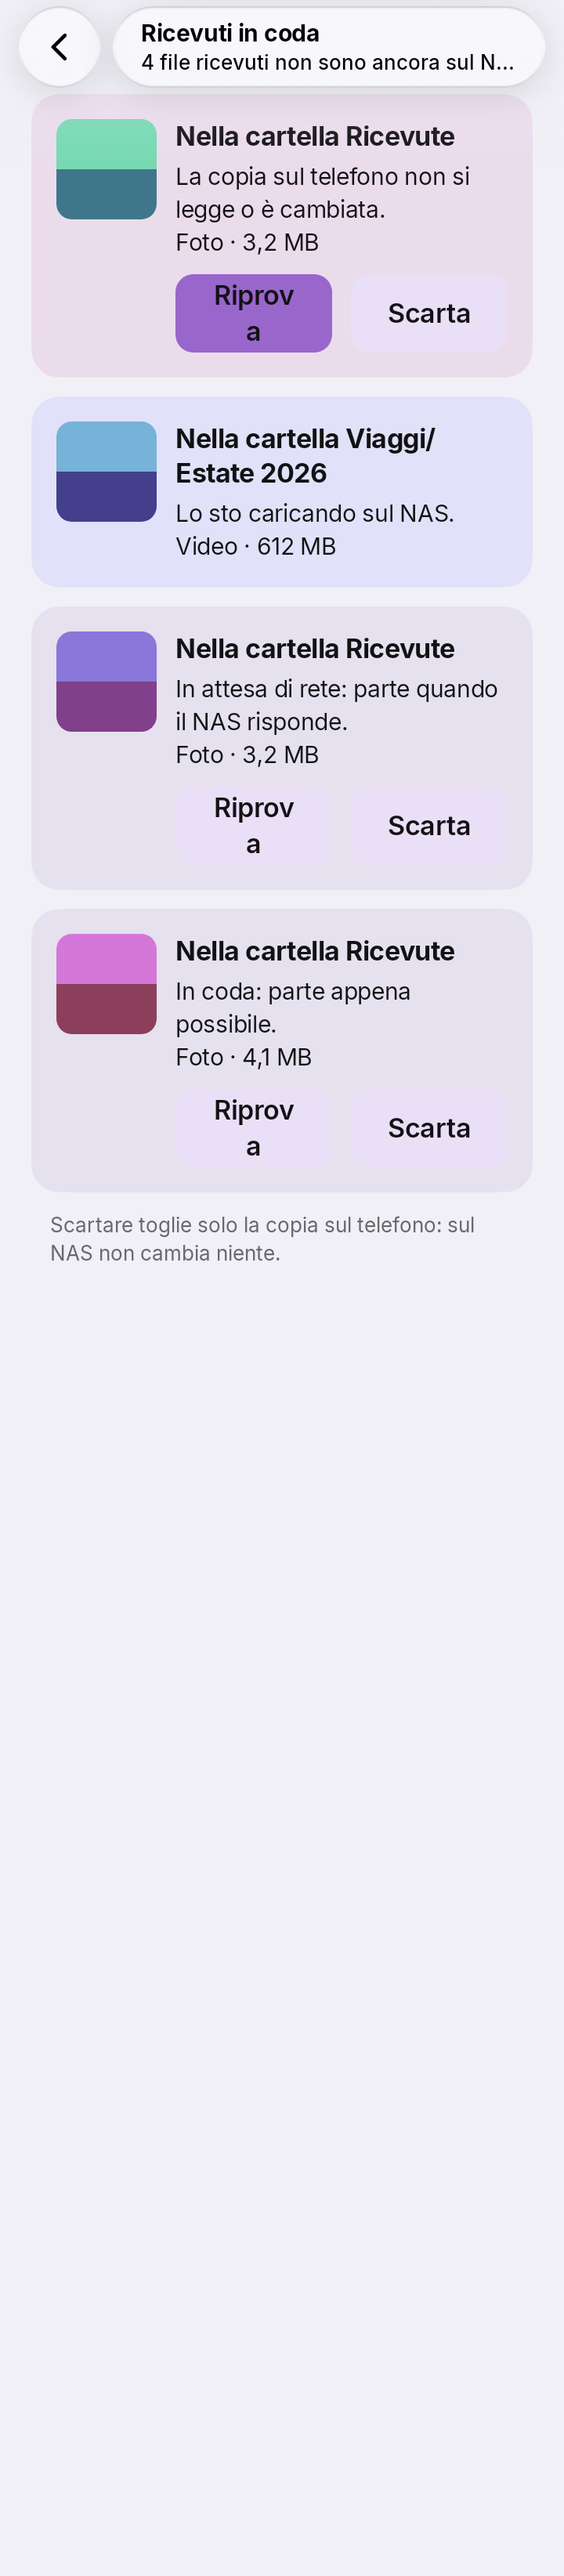
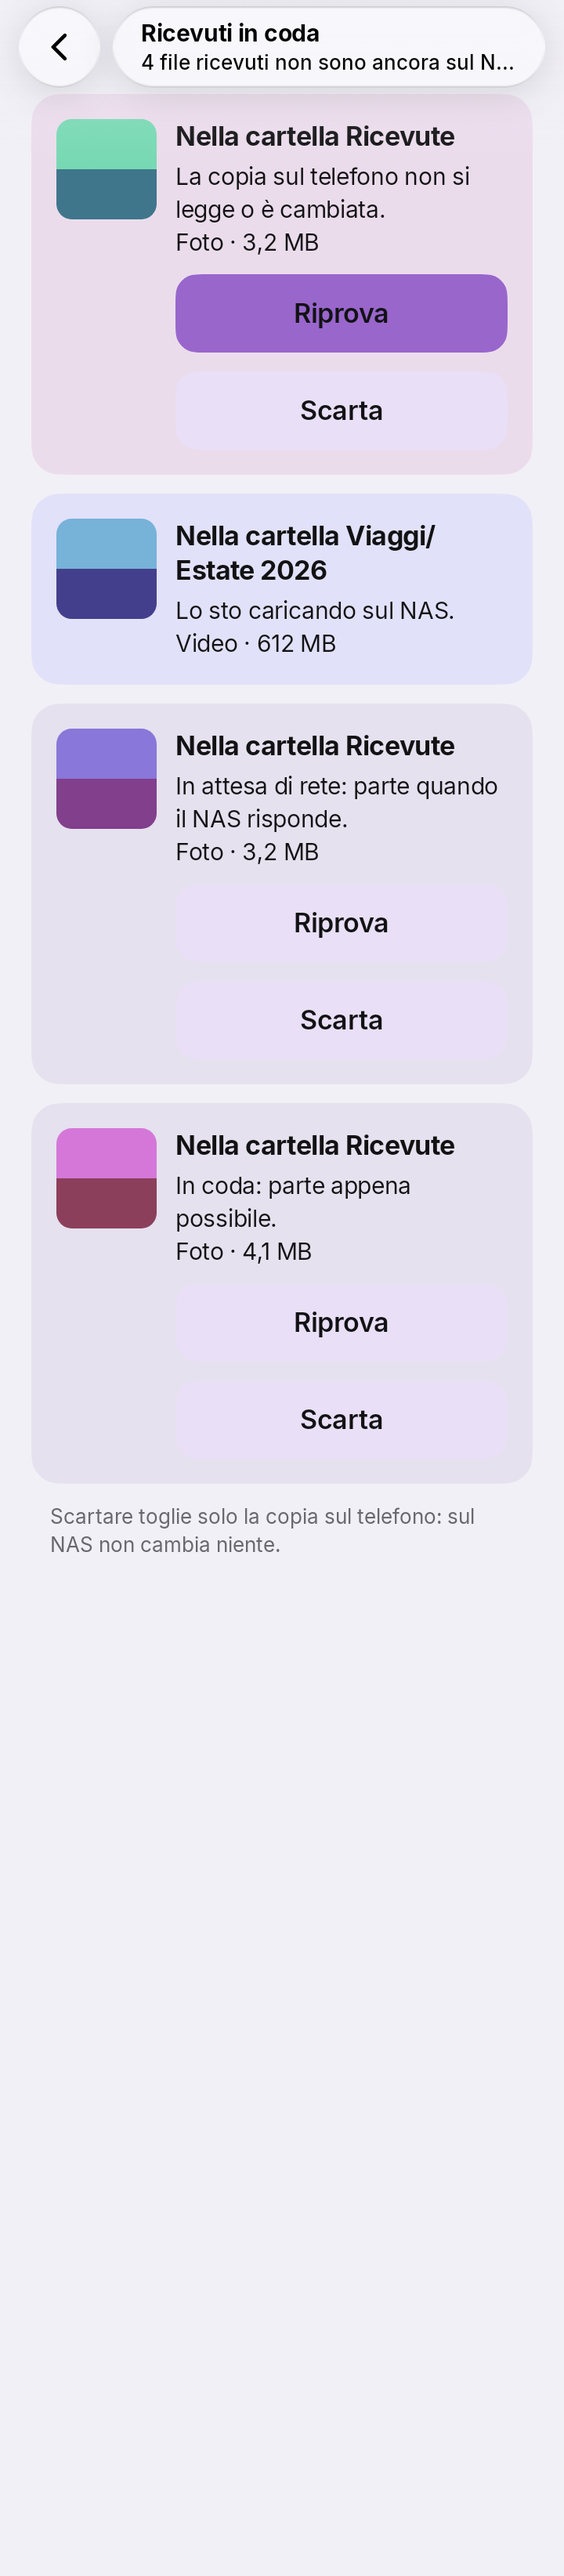
K4: Ricevuti in coda a 360 dp, "Riprova" e "Scarta" interi (uno sotto l'altro se non entrano)
Accanto alla miniatura la colonna dei tasti e' di ~200 dp: "Riprova" andava a capo a meta' parola.
I tasti ora stanno in un FlowRow alla loro larghezza naturale e si dividono la riga; se non entrano
interi vanno uno sotto l'altro. Prova a 360 dp (testo normale e grande): ogni etichetta su una riga,
nessun tasto sovrapposto. Screenshot 5-IN7 riregistrati.

diff --git a/feature-backup/src/test/kotlin/dev/pampa/mycloudgallery/feature/backup/received/ReceivedButtonsFitTest.kt b/feature-backup/src/test/kotlin/dev/pampa/mycloudgallery/feature/backup/received/ReceivedButtonsFitTest.kt
@@ -1,0 +1,79 @@
+package dev.pampa.mycloudgallery.feature.backup.received
+
+import android.app.Application
+import androidx.compose.ui.semantics.SemanticsActions
+import androidx.compose.ui.semantics.SemanticsProperties
+import androidx.compose.ui.semantics.getOrNull
+import androidx.compose.ui.test.SemanticsMatcher
+import androidx.compose.ui.test.onAllNodesWithText
+import androidx.compose.ui.text.TextLayoutResult
+import com.google.common.truth.Truth.assertThat
+import com.google.common.truth.Truth.assertWithMessage
+import dev.pampa.mycloudgallery.feature.backup.BackupComposeBase
+import dev.pampa.mycloudgallery.feature.backup.LARGE_TEXT
+import dev.pampa.mycloudgallery.feature.backup.testing.ReceivedSamples
+import org.junit.Test
+import org.junit.runner.RunWith
+import org.robolectric.RobolectricTestRunner
+import org.robolectric.annotation.Config
+import org.robolectric.annotation.GraphicsMode
+
+/**
+ * K4: "Riprova" e "Scarta" nella scheda di un file ricevuto, sul telefono dell'utente (360 dp, una pagina alta) e con il testo grande. Accanto alla
+ * miniatura la colonna dei tasti e' di ~200 dp: "Riprova" andava a capo a meta' parola ("Riprov/a"). Adesso i tasti stanno **interi**, su una riga se
+ * entrano o uno sotto l'altro, e non si sovrappongono mai.
+ */
+@RunWith(RobolectricTestRunner::class)
+@GraphicsMode(GraphicsMode.Mode.NATIVE)
+@Config(application = Application::class, qualifiers = "w360dp-h1700dp-xhdpi")
+class ReceivedButtonsFitTest : BackupComposeBase() {
+
+  private val items = listOf(
+    ReceivedSamples.item(1, ReceivedStatus.COPY_CHANGED, folder = "Ricevute"),
+    ReceivedSamples.item(2, ReceivedStatus.NETWORK, folder = "Viaggi/Estate 2026"),
+  )
+
+  private fun showList(fontScale: Float? = null) =
+    show(fontScale = fontScale) { ReceivedScreen(state = ReceivedUi(items, null, null), actions = ReceivedActions(), onBack = {}) }
+
+  /** Quante righe scrive ogni "[label]" sullo schermo (nell'albero non unito: il nodo del solo testo). */
+  private fun lineCounts(label: String): List<Int> =
+    composeRule.onAllNodesWithText(label, useUnmergedTree = true).fetchSemanticsNodes().map { node ->
+      val results = ArrayList<TextLayoutResult>()
+      node.config.getOrNull(SemanticsActions.GetTextLayoutResult)?.action?.invoke(results)
+      results.single().lineCount
+    }
+
+  private fun assertWholeWords(scale: String) {
+    for (label in listOf("Riprova", "Scarta")) {
+      val counts = lineCounts(label)
+      assertThat(counts).hasSize(2)
+      assertWithMessage("\"$label\" a 360 dp ($scale) va a capo: $counts").that(counts.all { it == 1 }).isTrue()
+    }
+  }
+
+  private fun assertNoOverlap() {
+    // I soli tasti delle schede ("Riprova: Ricevute", "Scarta: ..."): la freccia "indietro" della chrome e' toccabile anche lei.
+    val buttons = composeRule.onAllNodes(SemanticsMatcher.keyIsDefined(SemanticsActions.OnClick)).fetchSemanticsNodes()
+      .filter { node -> node.config.getOrNull(SemanticsProperties.ContentDescription)?.firstOrNull()?.let { it.startsWith("Riprova: ") || it.startsWith("Scarta: ") } == true }
+      .map { it.boundsInRoot }
+    assertThat(buttons).hasSize(4)
+    for (i in buttons.indices) for (j in i + 1 until buttons.size) {
+      assertWithMessage("i tasti $i e $j si sovrappongono: ${buttons[i]} / ${buttons[j]}").that(buttons[i].overlaps(buttons[j])).isFalse()
+    }
+  }
+
+  @Test
+  fun iTastiStannoInteriA360() {
+    showList()
+    assertWholeWords("testo normale")
+    assertNoOverlap()
+  }
+
+  @Test
+  fun iTastiStannoInteriA360ConIlTestoGrande() {
+    showList(LARGE_TEXT)
+    assertWholeWords("testo grande")
+    assertNoOverlap()
+  }
+}

diff --git a/feature-backup/src/main/kotlin/dev/pampa/mycloudgallery/feature/backup/received/ReceivedScreen.kt b/feature-backup/src/main/kotlin/dev/pampa/mycloudgallery/feature/backup/received/ReceivedScreen.kt
@@ -6,6 +6,8 @@ import androidx.compose.foundation.background
 import androidx.compose.foundation.layout.Arrangement
 import androidx.compose.foundation.layout.Box
 import androidx.compose.foundation.layout.ColumnScope
+import androidx.compose.foundation.layout.ExperimentalLayoutApi
+import androidx.compose.foundation.layout.FlowRow
 import androidx.compose.foundation.layout.PaddingValues
 import androidx.compose.foundation.layout.Row
 import androidx.compose.foundation.layout.fillMaxHeight
@@ -174,10 +176,19 @@ private fun ReceivedCard(item: ReceivedItem, actions: ReceivedActions) {
   )
 }
 
-/** "Riprova" e "Scarta" affiancati; per TalkBack ognuno dice di quale cartella parla (nell'elenco i tasti sono tanti e uguali). */
+/**
+ * "Riprova" e "Scarta": affiancati se entrano interi, uno sotto l'altro se no (a 360 dp, accanto alla miniatura, la colonna e' di ~200 dp e "Riprova"
+ * andava a capo a meta' parola). Il tasto sta alla sua larghezza naturale e si allarga a dividere la riga ([weight]); per TalkBack ognuno dice di
+ * quale cartella parla (nell'elenco i tasti sono tanti e uguali).
+ */
+@OptIn(ExperimentalLayoutApi::class)
 @Composable
 private fun ReceivedButtons(item: ReceivedItem, folder: String, actions: ReceivedActions) {
-  Row(horizontalArrangement = Arrangement.spacedBy(BackupDimens.BlockGap), modifier = Modifier.fillMaxWidth()) {
+  FlowRow(
+    horizontalArrangement = Arrangement.spacedBy(BackupDimens.BlockGap),
+    verticalArrangement = Arrangement.spacedBy(BackupDimens.BlockGap),
+    modifier = Modifier.fillMaxWidth(),
+  ) {
     if (item.canRetry) {
       val retryName = stringResource(R.string.backup_received_retry_for, folder)
       // "Riprova" e' il tasto pieno di un problema; per un file che aspetta e' una spinta in piu', quindi piu' quieta.
@@ -186,6 +197,7 @@ private fun ReceivedButtons(item: ReceivedItem, folder: String, actions: Receive
         onClick = { actions.retry(item) },
         modifier = Modifier.weight(1f).semantics { contentDescription = retryName },
         style = if (item.phase == ReceivedPhase.PROBLEM) FluidButtonStyle.Filled else FluidButtonStyle.Tinted,
+        fillWidth = false,
       )
     }
     if (item.canDiscard) {
@@ -195,6 +207,7 @@ private fun ReceivedButtons(item: ReceivedItem, folder: String, actions: Receive
         onClick = { actions.askDiscard(item) },
         modifier = Modifier.weight(1f).semantics { contentDescription = discardName },
         style = FluidButtonStyle.Tinted,
+        fillWidth = false,
       )
     }
   }

diff --git a/feature-backup/src/main/kotlin/dev/pampa/mycloudgallery/feature/backup/ui/BackupParts.kt b/feature-backup/src/main/kotlin/dev/pampa/mycloudgallery/feature/backup/ui/BackupParts.kt
@@ -108,8 +108,9 @@ internal fun BackupButton(
   modifier: Modifier = Modifier,
   style: FluidButtonStyle = FluidButtonStyle.Filled,
   enabled: Boolean = true,
+  fillWidth: Boolean = true,
 ) {
-  FluidButton(text = label, onClick = onClick, modifier = modifier, style = style, size = FluidButtonSize.Large, enabled = enabled, fillWidth = true)
+  FluidButton(text = label, onClick = onClick, modifier = modifier, style = style, size = FluidButtonSize.Large, enabled = enabled, fillWidth = fillWidth)
 }
 
 /** Un'intestazione di gruppo quieta, nella lingua delle altre pagine (la didascalia sopra un gruppo). */
